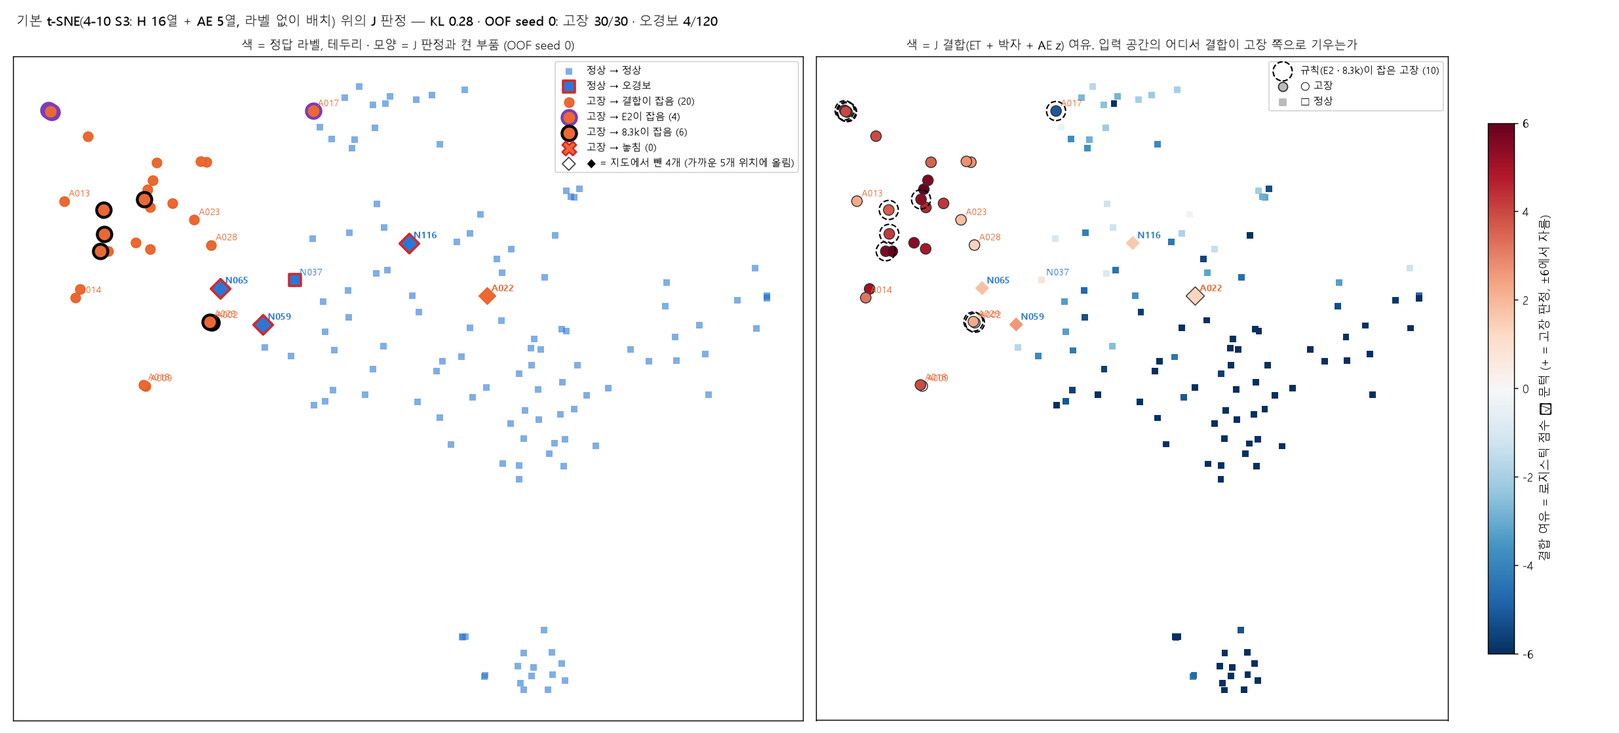
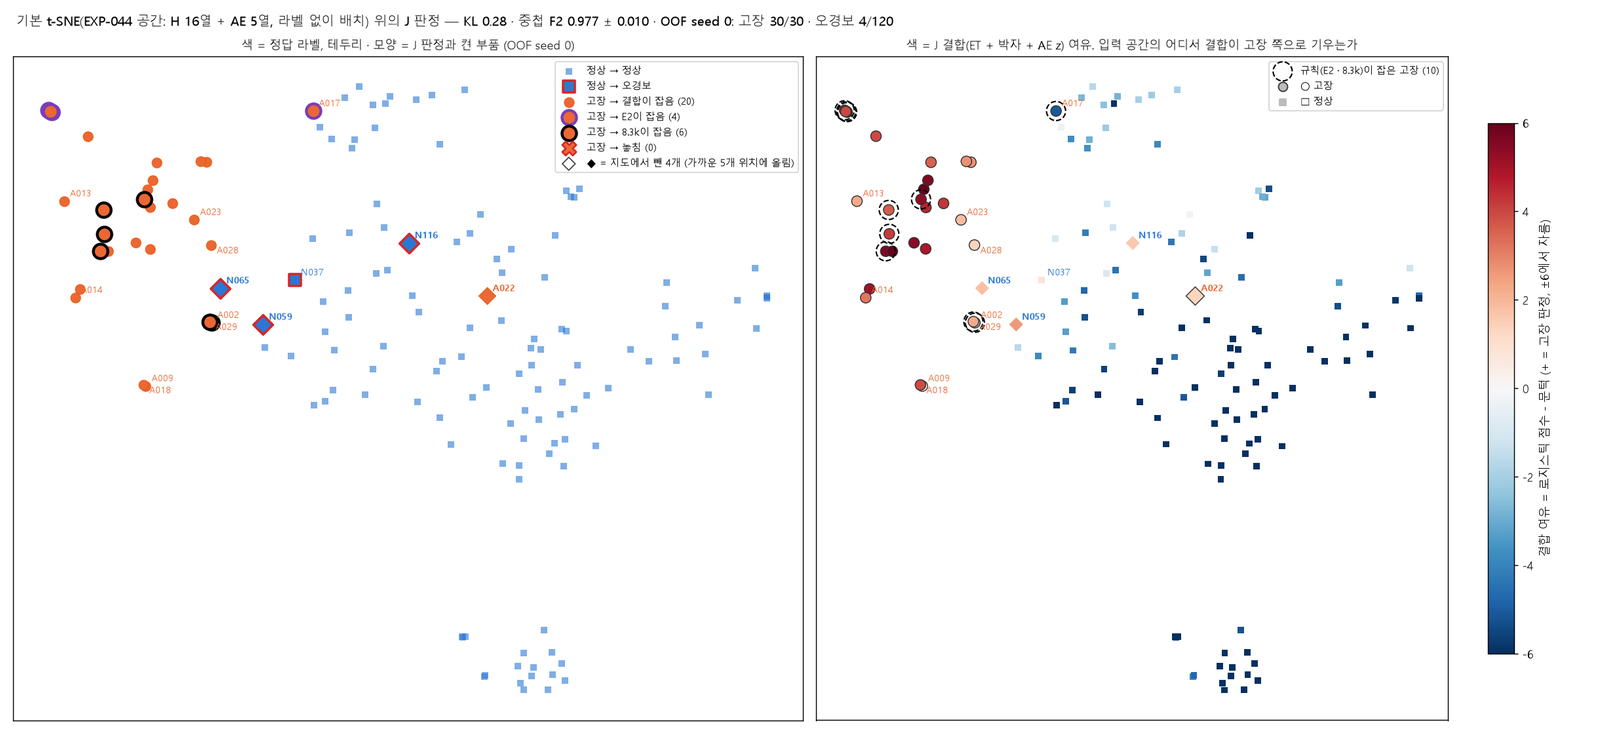
docs: 6-2 기본 t-SNE 위의 J 판정 (find_exp 경로 포함)
- 6-2 run.py · README · 그림(J 판정 · EXP-047 S 판정) · 섞인 점 표 · log
- run.py의 실험 결과 경로를 src.exp.find_exp로 (EXP-047 아카이브 이동 대응)
- 6_오류분석 README에 6-2 줄 (6-3 줄은 6-3 폴더와 함께 미커밋으로 남김)

diff --git a/단계/6_오류분석/6-2_1122_J판정_tSNE/run.py b/단계/6_오류분석/6-2_1122_J판정_tSNE/run.py
@@ -1,8 +1,8 @@
 # %% [markdown]
-# 6-2 (11-22) 기본 t-SNE(4-10 S3, 입력 21열) 위에 J(EXP-044) 판정을 덧입힌다 — 총정리용
-# - 지도 = tsne_default와 같은 공간 · 같은 seed (146개). 빠진 4개(059 · 065 · 116 · 022)는 원래 21열 공간에서 가까운 146개 중 5개의 지도 위치 평균에 ◆로 올린다
-# - 판정 = J를 EXP-044와 같은 방식으로 OOF seed 0 (StratifiedGroupKFold 5겹). 켠 부품 = 결합(로지스틱) · E2 · 8.3k. 결합 여유 = 결합 점수 − 그 폴드의 결합 문턱
-# - 중첩 5회 횟수 = EXP-044 result.json (다시 계산하지 않음)
+# 6-2 (11-22) 기본 t-SNE(4-10 S3) 위에 모델 판정을 덧입힌다 — 총정리용. J(EXP-044) · S(EXP-047, 8–12.5k 쪼갬)
+# - 지도 = 그 실험의 tsne_default와 같은 공간 · 같은 seed (146개). 빠진 4개(059 · 065 · 116 · 022)는 원래 공간에서 가까운 146개 중 5개의 지도 위치 평균에 ◆로 올린다
+# - 판정 = 그 실험 run.py와 같은 방식으로 OOF seed 0 (StratifiedGroupKFold 5겹). 켠 부품 = 결합(로지스틱) · E2 · 8.3k. 결합 여유 = 결합 점수 − 그 폴드의 결합 문턱
+# - 중첩 5회 횟수 = 그 실험 result.json (다시 계산하지 않음)
 # 실행: conda run -n qe-phm python "단계/6_오류분석/6-2_1122_J판정_tSNE/run.py"
 
 # %% 설정
@@ -18,90 +18,109 @@ from sklearn.model_selection import StratifiedGroupKFold
 from sklearn.neighbors import NearestNeighbors
 from src.exp import *
 from src.exp2util import *
-from src.features2 import PeakRef
+from src.features2 import PeakRef, cached_hi_split, HI_SPLIT
 from src.models2 import TwoAE
 HERE = os.path.dirname(os.path.abspath(__file__)); FIG = os.path.join(HERE, "figs"); os.makedirs(FIG, exist_ok=True)
-EXP044 = os.path.join(_d, "단계", "5_모델비교", "EXP-044_1122_AE추가")
+B5 = os.path.join(_d, "단계", "5_모델비교")
 ns = NS(); y, g = ns.y, ns.g; names = np.array(ns.names); nor = y == 0
 out = []; P = lambda s="": (out.append(str(s)), print(s))
+spec, res = rule83_flags(ns.X); r83 = (spec | res).astype(float); idx = np.arange(ns.n, dtype=float)
 
-# %% J OOF seed 0 (EXP-044 run.py의 oof_ae와 같은 계산) + 폴드별 결합 문턱
-spec, res = rule83_flags(ns.X); r83 = (spec | res).astype(float)
-M_rule = np.column_stack([ns.M, np.arange(ns.n, dtype=float), r83])
-mkJ = lambda: Add83(lambda: TwoAE("lin", ("E2",), fixed=tuple(ns.FIXED), nf=ns.nf, df=ns.df, peak=tuple(ns.PEAK)))
-fo = {k: np.empty(ns.n) for k in ("a", "z", "ae", "margin")}; fo.update({k: np.zeros(ns.n, bool) for k in ("main", "E2", "R83")})
-for tr, te in StratifiedGroupKFold(5, shuffle=True, random_state=0).split(g, y, g):
-    m = mkJ().fit(M_rule[tr], y[tr]); f = m.fires(M_rule[te])
-    for k in ("a", "z", "ae", "main", "E2", "R83"): fo[k][te] = f[k]
-    fo["margin"][te] = f["score"] - m.m_.tc_
-caught = fo["main"] | fo["E2"] | fo["R83"]
-part = np.where(fo["R83"], "8.3k", np.where(fo["E2"], "E2", np.where(fo["main"], "결합", "—")))
-J = json.load(open(os.path.join(EXP044, "result.json"), encoding="utf-8"))["configs"]["중첩: J | W + AE + E2 + 8.3k (최종 후보)"]
-n5 = np.array([(5 - J["miss_counts"].get(n_, 0)) if y[i] else J["fp_counts"].get(n_, 0) for i, n_ in enumerate(names)])   # 5회 중 고장 판정 횟수
-P(f"OOF seed 0: 고장 {int(caught[~nor].sum())}/30 잡음 (결합 {int(((part == '결합') & ~nor).sum())} · E2 {int(((part == 'E2') & ~nor).sum())} · 8.3k {int(((part == '8.3k') & ~nor).sum())}), 오경보 {int(caught[nor].sum())}/120: {' '.join(names[nor & caught])}")
-
-# %% 기본 t-SNE 공간 (tsne_space와 같은 계산, 빠진 4개 행도 같이 만든다)
-keep = ~np.isin(names, list(TSNE_DROP))
-Tn = ns.T.copy(); pk = PeakRef(ns.df).fit(ns.L[nor & keep]).transform(ns.L); Tn["H16_peak_h"], Tn["H17_peak_w"] = pk[:, 0], pk[:, 1]
-A = np.column_stack([Tn[ns.cols].values, ae_map_cols(ns)]); Z = map_scale(A[nor & keep], A)[0]
-assert np.allclose(Z[keep], tsne_space(ns)[0])
-kl, Ek, _ = tsne_best(Z[keep])
-E = np.empty((ns.n, 2)); E[keep] = Ek
-nn = NearestNeighbors(n_neighbors=6).fit(Z[keep]); kidx = np.flatnonzero(keep)
-d_, I_ = nn.kneighbors(Z)
-nb = np.where(keep[:, None], I_[:, 1:], I_[:, :5])                     # 자기 자신 제외한 가까운 5개 (지도 안 번호)
-E[~keep] = Ek[nb[~keep]].mean(1)
-nb_abn = (y[kidx][nb] == 1).sum(1)                                     # 원래 21열 공간에서 가까운 5개 중 고장 수
-mixed = np.where(y == 1, nb_abn <= 2, nb_abn >= 3)                     # 섞인 점: 고장인데 이웃 과반이 정상 / 정상인데 이웃 과반이 고장
-P(f"t-SNE KL {kl:.2f}. 섞인 고장(이웃 5개 중 고장 ≤ 2): {' '.join(short(n_) for n_ in names[mixed & ~nor])}")
-P(f"섞인 정상(이웃 5개 중 고장 ≥ 3): {' '.join(short(n_) for n_ in names[mixed & nor]) or '없음'}")
-
-# %% 그림: 왼쪽 = 라벨 + J 판정(켠 부품), 오른쪽 = 결합 여유 색
+# 모델 두 개: (H 표, ET 고정 열, t-SNE 열, result.json 위치 · 키)
+SP = cached_hi_split("train", ns.X); Hs = pd.concat([ns.T, SP], axis=1)
+FX47 = [c for c in ns.FIXED if c not in ("H10_ring_8-12.5k", "H15_share_8-12.5k")] + HI_SPLIT
+M47 = np.hstack([Hs[FX47].values, ns.T[["L1_S"]].values, ns.L])
+CFG = {"J": dict(exp="EXP-044", T=ns.T, FX=list(ns.FIXED), M=ns.M, cols=list(ns.cols), json=("EXP-044_1122_AE추가", "중첩: J | W + AE + E2 + 8.3k (최종 후보)"), fig="tsne_J판정"),
+       "S": dict(exp="EXP-047", T=Hs, FX=FX47, M=M47, cols=FX47 + list(ns.PEAK) + ["L1_S"], json=("EXP-047_1122_8-12k쪼개기", "중첩: S | J에서 H10 · H15 → 8–10 · 10–12.5k 4열 (이상치 포함 학습)"), fig="tsne_S판정_EXP047")}
 EDGE = {"결합": "#e8590c", "E2": "#7a3db8", "8.3k": "#000000"}
-ann = sorted(set(TSNE_LABELS) | set(TSNE_DROP) | set(names[nor & caught]) | set(names[mixed]))
-fig, axs = plt.subplots(1, 2, figsize=(19, 8.6))
-ax = axs[0]
-for dk, mk_, sz in ((keep, "o", 1.0), (~keep, "D", 1.5)):
-    m = dk & nor & ~caught; ax.scatter(*E[m].T, s=26 * sz, marker="s" if mk_ == "o" else "D", color=NOR, alpha=.6, lw=0, label="정상 → 정상" if mk_ == "o" else None)
-    m = dk & nor & caught; ax.scatter(*E[m].T, s=90 * sz, marker="s" if mk_ == "o" else "D", color=NOR, edgecolor="#d62728", lw=2, label="정상 → 오경보" if mk_ == "o" else None)
-    for k, c in EDGE.items():
-        m = dk & ~nor & (part == k)
-        ax.scatter(*E[m].T, s=(70 if k == "결합" else 150) * sz, marker=mk_, color=ABN, edgecolor=c, lw=.6 if k == "결합" else 2.4,
-                   label=f"고장 → {k}이 잡음 ({int(((part == k) & ~nor).sum())})" if mk_ == "o" else None)
-    m = dk & ~nor & ~caught; ax.scatter(*E[m].T, s=140 * sz, marker="X", color=ABN, edgecolor="#d62728", lw=1.5, label=f"고장 → 놓침 ({int((~nor & ~caught).sum())})" if mk_ == "o" else None)
-ax.scatter([], [], marker="D", s=60, facecolor="none", edgecolor="#444", label="◆ = 지도에서 뺀 4개 (가까운 5개 위치에 올림)")
-ax.set_title("색 = 정답 라벨, 테두리 · 모양 = J 판정과 켠 부품 (OOF seed 0)", fontsize=10)
-ax.legend(fontsize=8.3, loc="upper right")
-ax = axs[1]
-mg = np.clip(fo["margin"], -6, 6); nrm = TwoSlopeNorm(0, -6, 6)
-for dk, mn, mf in ((keep, "s", "o"), (~keep, "D", "D")):
-    ax.scatter(*E[dk & nor].T, c=mg[dk & nor], cmap="RdBu_r", norm=nrm, s=30 if mn == "s" else 70, marker=mn, lw=0)
-    sc = ax.scatter(*E[dk & ~nor].T, c=mg[dk & ~nor], cmap="RdBu_r", norm=nrm, s=80 if mf == "o" else 120, marker=mf, edgecolor="#333", lw=.8)
-rule = ~nor & np.isin(part, ["E2", "8.3k"])
-ax.scatter(*E[rule].T, s=260, facecolor="none", edgecolor="#000", lw=1.2, ls="--", label=f"규칙(E2 · 8.3k)이 잡은 고장 ({int(rule.sum())})")
-ax.scatter([], [], marker="o", s=60, color="#bbb", edgecolor="#333", label="○ 고장"); ax.scatter([], [], marker="s", s=30, color="#bbb", label="□ 정상")
-cb = fig.colorbar(sc, ax=ax, shrink=.8); cb.set_label("결합 여유 = 로지스틱 점수 − 문턱 (+ = 고장 판정, ±6에서 자름)")
-ax.set_title("색 = J 결합(ET + 박자 + AE z) 여유. 입력 공간의 어디서 결합이 고장 쪽으로 기우는가", fontsize=10)
-ax.legend(fontsize=8.3, loc="upper right")
-for a_ in axs:
-    for f_ in ann:
-        i = int(np.flatnonzero(names == f_)[0]); a_.annotate(short(f_), E[i], xytext=(4, 4), textcoords="offset points", fontsize=7.5, color=ABN if y[i] else NOR, weight="bold" if f_ in TSNE_DROP else None)
-    a_.set_xticks([]); a_.set_yticks([])
-fig.suptitle(f"기본 t-SNE(4-10 S3: H 16열 + AE 5열, 라벨 없이 배치) 위의 J 판정 — KL {kl:.2f} · OOF seed 0: 고장 {int(caught[~nor].sum())}/30 · 오경보 {int(caught[nor].sum())}/120", x=.01, ha="left", fontsize=11)
-fig.tight_layout(); fig.savefig(os.path.join(FIG, "tsne_J판정.png"), dpi=130); plt.close(fig)
+keep = ~np.isin(names, list(TSNE_DROP))
 
-# %% 표: 섞인 점 + 빠진 4개 + 오경보
-rows = [i for i in range(ns.n) if names[i] in ann]
-rows.sort(key=lambda i: (y[i] == 0, -fo["margin"][i]))
-T = pd.DataFrame({"파일": [short(names[i]) for i in rows], "정답": ["고장" if y[i] else "정상" for i in rows],
-                  "지도": ["◆ 뺌" if not keep[i] else ("섞임" if mixed[i] else "") for i in rows],
-                  "이웃 고장(5)": [int(nb_abn[i]) for i in rows], "ET logit": [f"{fo['a'][i]:.2f}" for i in rows],
-                  "박자 z": [f"{fo['z'][i]:.1f}" for i in rows], "AE z": [f"{fo['ae'][i]:.2f}" for i in rows],
-                  "결합 여유": [f"{fo['margin'][i]:+.2f}" for i in rows], "켠 부품(seed 0)": [part[i] for i in rows],
-                  "중첩 5회 고장 판정": [f"{n5[i]}/5" for i in rows]})
-with open(os.path.join(HERE, "표_J판정_섞인점.md"), "w", encoding="utf-8") as fh:
-    fh.write("# 6-2 섞인 점 · 지도에서 뺀 4개 · 오경보의 J 판정\n\n이웃 고장(5) = t-SNE 전 21열 공간에서 가까운 5개(146개 중) 중 고장 수. 결합 여유 = 로지스틱 점수 − 폴드 문턱(+ = 결합이 고장 판정). "
-             "켠 부품 = OOF seed 0에서 고장 판정을 낸 부품(8.3k > E2 > 결합 순으로 표시). 중첩 5회 = EXP-044 result.json\n\n" + md_table(T) + "\n")
-P(T.to_string(index=False))
+
+def judge(c):
+    """OOF seed 0: 판정 부품 · ET · 박자 z · AE z · 결합 여유 + 중첩 5회 고장 판정 횟수"""
+    Mr = np.column_stack([c["M"], idx, r83])
+    mk = lambda: Add83(lambda: TwoAE("lin", ("E2",), fixed=tuple(c["FX"]), nf=len(c["FX"]), df=ns.df, peak=tuple(ns.PEAK)))
+    fo = {k: np.empty(ns.n) for k in ("a", "z", "ae", "margin")}; fo.update({k: np.zeros(ns.n, bool) for k in ("main", "E2", "R83")})
+    for tr, te in StratifiedGroupKFold(5, shuffle=True, random_state=0).split(g, y, g):
+        m = mk().fit(Mr[tr], y[tr]); f = m.fires(Mr[te])
+        for k in ("a", "z", "ae", "main", "E2", "R83"): fo[k][te] = f[k]
+        fo["margin"][te] = f["score"] - m.m_.tc_
+    fo["caught"] = fo["main"] | fo["E2"] | fo["R83"]
+    fo["part"] = np.where(fo["R83"], "8.3k", np.where(fo["E2"], "E2", np.where(fo["main"], "결합", "—")))
+    R = json.load(open(os.path.join(find_exp(c["json"][0]), "result.json"), encoding="utf-8"))["configs"][c["json"][1]]
+    fo["n5"] = np.array([(5 - R["miss_counts"].get(n_, 0)) if y[i] else R["fp_counts"].get(n_, 0) for i, n_ in enumerate(names)])
+    fo["res"] = R
+    return fo
+
+
+def tsne_map(c):
+    """tsne_space와 같은 공간 → 지도 좌표 (150, 2; 빠진 4개는 가까운 5개 위치 평균), 이웃 고장 수, KL"""
+    Tn = c["T"].copy(); pk = PeakRef(ns.df).fit(ns.L[nor & keep]).transform(ns.L); Tn["H16_peak_h"], Tn["H17_peak_w"] = pk[:, 0], pk[:, 1]
+    A = np.column_stack([Tn[c["cols"]].values, ae_map_cols(ns)]); Z = map_scale(A[nor & keep], A)[0]
+    assert np.allclose(Z[keep], tsne_space(ns, c["T"], c["cols"])[0])
+    kl, Ek, _ = tsne_best(Z[keep])
+    E = np.empty((ns.n, 2)); E[keep] = Ek
+    _, I_ = NearestNeighbors(n_neighbors=6).fit(Z[keep]).kneighbors(Z)
+    nb = np.where(keep[:, None], I_[:, 1:], I_[:, :5])
+    E[~keep] = Ek[nb[~keep]].mean(1)
+    return E, (y[np.flatnonzero(keep)][nb] == 1).sum(1), kl, Z.shape[1]
+
+
+def draw(tag, c, fo, E, nb_abn, kl, ncol):
+    part, caught = fo["part"], fo["caught"]
+    mixed = np.where(y == 1, nb_abn <= 2, nb_abn >= 3)
+    ann = sorted(set(TSNE_LABELS) | set(TSNE_DROP) | set(names[nor & caught]) | set(names[mixed]) | set(names[(fo["n5"] < 5) & ~nor]))
+    fig, axs = plt.subplots(1, 2, figsize=(19, 8.6))
+    ax = axs[0]
+    for dk, mk_, sz in ((keep, "o", 1.0), (~keep, "D", 1.5)):
+        m = dk & nor & ~caught; ax.scatter(*E[m].T, s=26 * sz, marker="s" if mk_ == "o" else "D", color=NOR, alpha=.6, lw=0, label="정상 → 정상" if mk_ == "o" else None)
+        m = dk & nor & caught; ax.scatter(*E[m].T, s=90 * sz, marker="s" if mk_ == "o" else "D", color=NOR, edgecolor="#d62728", lw=2, label="정상 → 오경보" if mk_ == "o" else None)
+        for k, ec in EDGE.items():
+            m = dk & ~nor & (part == k)
+            ax.scatter(*E[m].T, s=(70 if k == "결합" else 150) * sz, marker=mk_, color=ABN, edgecolor=ec, lw=.6 if k == "결합" else 2.4,
+                       label=f"고장 → {k}이 잡음 ({int(((part == k) & ~nor).sum())})" if mk_ == "o" else None)
+        m = dk & ~nor & ~caught; ax.scatter(*E[m].T, s=140 * sz, marker="X", color=ABN, edgecolor="#d62728", lw=1.5, label=f"고장 → 놓침 ({int((~nor & ~caught).sum())})" if mk_ == "o" else None)
+    ax.scatter([], [], marker="D", s=60, facecolor="none", edgecolor="#444", label="◆ = 지도에서 뺀 4개 (가까운 5개 위치에 올림)")
+    ax.set_title(f"색 = 정답 라벨, 테두리 · 모양 = {tag} 판정과 켠 부품 (OOF seed 0)", fontsize=10); ax.legend(fontsize=8.3, loc="upper right")
+    ax = axs[1]
+    mg = np.clip(fo["margin"], -6, 6); nrm = TwoSlopeNorm(0, -6, 6)
+    for dk, mn, mf in ((keep, "s", "o"), (~keep, "D", "D")):
+        ax.scatter(*E[dk & nor].T, c=mg[dk & nor], cmap="RdBu_r", norm=nrm, s=30 if mn == "s" else 70, marker=mn, lw=0)
+        sc = ax.scatter(*E[dk & ~nor].T, c=mg[dk & ~nor], cmap="RdBu_r", norm=nrm, s=80 if mf == "o" else 120, marker=mf, edgecolor="#333", lw=.8)
+    rule = ~nor & np.isin(part, ["E2", "8.3k"])
+    ax.scatter(*E[rule].T, s=260, facecolor="none", edgecolor="#000", lw=1.2, ls="--", label=f"규칙(E2 · 8.3k)이 잡은 고장 ({int(rule.sum())})")
+    ax.scatter([], [], marker="o", s=60, color="#bbb", edgecolor="#333", label="○ 고장"); ax.scatter([], [], marker="s", s=30, color="#bbb", label="□ 정상")
+    cb = fig.colorbar(sc, ax=ax, shrink=.8); cb.set_label("결합 여유 = 로지스틱 점수 - 문턱 (+ = 고장 판정, ±6에서 자름)")
+    ax.set_title(f"색 = {tag} 결합(ET + 박자 + AE z) 여유. 입력 공간의 어디서 결합이 고장 쪽으로 기우는가", fontsize=10); ax.legend(fontsize=8.3, loc="upper right")
+    span = np.ptp(E, 0).max(); placed = []
+    for f_ in ann:                                                      # 붙어 있는 점은 이름표를 아래로 내린다
+        i = int(np.flatnonzero(names == f_)[0]); dy = 4 - 11 * sum(np.hypot(*(E[i] - E[j])) < .05 * span for j in placed); placed.append(i)
+        for a_ in axs: a_.annotate(short(f_), E[i], xytext=(5, dy), textcoords="offset points", fontsize=7.5, color=ABN if y[i] else NOR, weight="bold" if f_ in TSNE_DROP else None)
+    for a_ in axs: a_.set_xticks([]); a_.set_yticks([])
+    R = fo["res"]
+    fig.suptitle(f"기본 t-SNE({c['exp']} 공간: H {ncol - 5}열 + AE 5열, 라벨 없이 배치) 위의 {tag} 판정 — KL {kl:.2f} · 중첩 F2 {R['f2']:.3f} ± {R['f2_sd']:.3f} · OOF seed 0: 고장 {int(caught[~nor].sum())}/30 · 오경보 {int(caught[nor].sum())}/120",
+                 x=.01, ha="left", fontsize=11)
+    fig.tight_layout(); fig.savefig(os.path.join(FIG, c["fig"] + ".png"), dpi=130); plt.close(fig)
+    rows = sorted([i for i in range(ns.n) if names[i] in ann], key=lambda i: (y[i] == 0, -fo["margin"][i]))
+    return pd.DataFrame({"파일": [short(names[i]) for i in rows], "정답": ["고장" if y[i] else "정상" for i in rows],
+                         "지도": ["◆ 뺌" if not keep[i] else ("섞임" if mixed[i] else "") for i in rows],
+                         "이웃 고장(5)": [int(nb_abn[i]) for i in rows], "ET logit": [f"{fo['a'][i]:.2f}" for i in rows],
+                         "박자 z": [f"{fo['z'][i]:.1f}" for i in rows], "AE z": [f"{fo['ae'][i]:.2f}" for i in rows],
+                         "결합 여유": [f"{fo['margin'][i]:+.2f}" for i in rows], "켠 부품(seed 0)": [fo["part"][i] for i in rows],
+                         "중첩 5회 고장 판정": [f"{fo['n5'][i]}/5" for i in rows]}), mixed
+
+
+# %% 실행
+md = ["# 6-2 섞인 점 · 지도에서 뺀 4개 · 오경보의 판정 (J = EXP-044, S = EXP-047)\n",
+      "이웃 고장(5) = t-SNE 전 그 실험 공간에서 가까운 5개(146개 중) 중 고장 수. 결합 여유 = 로지스틱 점수 − 폴드 문턱(+ = 결합이 고장 판정). "
+      "켠 부품 = OOF seed 0에서 고장 판정을 낸 부품(8.3k > E2 > 결합 순으로 표시). 중첩 5회 = 그 실험 result.json\n"]
+for tag, c in CFG.items():
+    fo = judge(c); E, nb_abn, kl, ncol = tsne_map(c); T, mixed = draw(tag, c, fo, E, nb_abn, kl, ncol)
+    P(f"[{tag} {c['exp']}] OOF seed 0: 고장 {int(fo['caught'][~nor].sum())}/30 (결합 {int(((fo['part'] == '결합') & ~nor).sum())} · E2 {int(((fo['part'] == 'E2') & ~nor).sum())} · 8.3k {int(((fo['part'] == '8.3k') & ~nor).sum())}), "
+      f"오경보 {int(fo['caught'][nor].sum())}/120: {' '.join(names[nor & fo['caught']])} · KL {kl:.2f}")
+    P(f"  섞인 고장: {' '.join(short(n_) for n_ in names[mixed & ~nor])} · 섞인 정상: {' '.join(short(n_) for n_ in names[mixed & nor]) or '없음'}")
+    P(T.to_string(index=False)); P()
+    md += [f"\n## {tag} ({c['exp']})\n\n![{tag}](figs/{c['fig']}.png)\n\n", md_table(T), "\n"]
+open(os.path.join(HERE, "표_J판정_섞인점.md"), "w", encoding="utf-8").write("".join(md))
 open(os.path.join(HERE, "log.txt"), "w", encoding="utf-8").write("\n".join(out))
 print("done")

diff --git a/단계/6_오류분석/6-2_1122_J판정_tSNE/README.md b/단계/6_오류분석/6-2_1122_J판정_tSNE/README.md
@@ -1,0 +1,68 @@
+# 6-2 기본 t-SNE 위의 J · S 판정 + 11-22 그림 총정리
+
+**결론: 라벨 없이 배치한 입력 공간(21열)에서도 고장 대부분은 왼쪽 무리에 모이고, J의 결합 여유도 그 무리에서 +로 기운다. 입력 공간에서 정상 쪽에 섞인 고장 8개는 두 가지 방식으로 잡힌다. A009 · A018 · A014 · A028 · A022는 결합이 AE z나 박자 z로 끌어올려 잡고, A017(E2) · A002(8.3k)는 결합 여유가 −로 규칙만 잡는다. 오경보 N059 · N065 · N116 · N037은 고장 무리와 정상 무리 사이 경계에 있다(정보 한계와 일치).**
+
+![J 판정](figs/tsne_J판정.png)
+
+- 지도는 `tsne_default`(EXP-044 `tsne_라벨`)와 **같은 공간 · 같은 seed · 같은 배치**다. H 16열(박자 S 포함) + AE 5열이고, 라벨과 모델은 배치에 쓰지 않는다.
+- ◆ 4개(059 · 065 · 116 · 022)는 지도 계산에서 빠진 파일이다. 원래 21열 공간에서 가장 가까운 5개의 위치 평균에 올렸다.
+- **왼쪽**: 색 = 정답, 테두리 = J가 잡은 부품(OOF seed 0). 주황 얇은 테두리 = 결합, 보라 = E2, 검정 = 8.3k, 빨간 테두리 □ = 오경보.
+  - 부품이 겹치면 8.3k > E2 > 결합 순으로 표시한다. 예를 들어 A029는 결합 여유도 +2.28이다.
+- **오른쪽**: 색 = 결합 여유(로지스틱 점수 − 폴드 문턱). 빨강 = 결합이 고장, 파랑 = 정상. 점선 원 = 규칙이 잡은 고장.
+
+## 섞인 점의 J 판정 (전체는 [표](표_J판정_섞인점.md))
+
+| 파일 | 이웃 고장(5) | ET logit | 박자 z | AE z | 결합 여유 | 켠 부품 | 중첩 5회 |
+|---|---|---|---|---|---|---|---|
+| A018 | 1 | 1.26 | 0.1 | 2.71 | +3.91 | 결합 | 5/5 |
+| A014 | 1 | 0.04 | **3.9** | 1.31 | +3.19 | 결합 | 5/5 |
+| A029 | 1 | 0.78 | 0.0 | 1.97 | +2.28 | 8.3k | 5/5 |
+| A028 | 2 | 0.41 | 1.5 | 1.42 | +1.38 | 결합 | 5/5 |
+| A022 ◆ | 2 | −0.08 | **8.5** | −0.24 | +1.32 | 결합 | 5/5 |
+| A009 | 1 | 0.07 | 0.0 | **2.29** | +0.17 | 결합 | 5/5 |
+| A002 | 1 | −0.85 | 0.0 | 1.97 | **−2.48** | 8.3k | 5/5 |
+| A017 | 0 | −1.27 | 0.0 | −0.83 | **−5.08** | E2 | 5/5 |
+| N059 ◆ | 2 | 1.17 | 0.0 | 2.55 | +2.60 | 결합 | 3/5 |
+| N065 ◆ | 3 | 0.63 | 0.0 | 0.72 | +1.81 | 결합 | 4/5 |
+| N116 ◆ | 1 | 0.68 | 0.0 | 1.85 | +1.60 | 결합 | 5/5 |
+| N037 | 0 | 0.09 | 0.0 | 0.92 | +0.82 | 결합 | 2/5 |
+
+이웃 고장(5) = t-SNE 전 21열 공간에서 가까운 5개 중 고장 수. 2 이하이면 "섞인 고장"이다.
+
+## 해석
+- **t-SNE와 메인 그림이 다르게 보이는 이유가 파일 단위로 확인된다.** A009는 ET가 0.07로 정상 수준이지만 AE z가 2.29라서 결합이 간신히(+0.17) 잡는다. t-SNE는 21열에 같은 비중을 줘서 이 AE 신호가 묻히고, 로지스틱은 AE에 따로 가중치를 줘서 살린다. A014 · A022는 박자 z가 같은 역할을 한다.
+- **규칙 2개가 없으면 A002 · A017을 놓친다.** 두 파일은 결합 여유가 −이고, A017은 정상 무리 한가운데에 있다(이웃 고장 0). K(규칙 없음)가 자주 놓친 파일과 같다.
+- **오경보 4개는 모두 결합이 냈고, 두 무리 사이에 있다.** N059 · N116은 AE z가 고장 수준(2.55 · 1.85)이다. 입력 공간에서도 고장과 가까워 피처로 가르기 어렵다(4-9 결론과 같음).
+
+## S(EXP-047, 8–12.5k 쪼갬) 판정
+
+![S 판정](figs/tsne_S판정_EXP047.png)
+
+- 지도는 EXP-047 공간(H 18열 + AE 5열)이다. 섞인 고장 8개와 잡는 부품 수(결합 20 · E2 4 · 8.3k 6)는 J와 같다.
+- 쪼갠 열로 경계 고장의 결합 여유가 올라간다: **A009 +0.17 → +0.99 · A002 −2.48 → −0.26 · A022 +1.32 → +3.11** (A022는 중첩 4/5로 한 번 놓침).
+- 오경보는 N037 대신 **N025**(여유 +0.23, 중첩 4/5)가 생긴다. N065 · N116의 여유는 줄어든다(+1.81 → +0.50, +1.60 → +0.79). 중첩 F2는 0.968로 J(0.977)보다 낮다.
+- 사용자 판단("경계 고장 2개만 처리하면 더 잘 갈림")과 맞는 그림이다. A002 · A017은 S에서도 결합 여유가 −다.
+
+## 뷰어
+
+EDA 뷰어 "로지스틱 경계" 화면 아래 t-SNE 카드에도 같은 판정을 덧입혔다(EXP-044 · 047). 색을 정답 라벨 / 결합 결정값 중에서 고르고, 규칙 기호와 ◆ 4개가 나온다. 뷰어 지도는 val 40개를 함께 펼친 것이라 이 그림과 배치는 다르다.
+
+## 11-22 그림 총정리 (어제 만든 그림의 역할)
+
+| 묻는 것 | 그림 | 공간 | 요점 |
+|---|---|---|---|
+| J는 어떻게 판단하나 (메인) | [EXP-044 logistic_plane](../../5_모델비교/4_최종모델J/EXP-044_1122_AE추가/figs/logistic_plane.png) | 모델 출력: ET + 박자 z 환산 × AE z | 로지스틱 경계 vs ET 단독 경계, 부품별 잡음 |
+| 입력 공간에서 정상 · 고장이 갈리나 | [4-10 tsne_S3_AE5](../../4_피처/4-10_1122_tSNE_AE공간/figs/tsne_S3_AE5.png), [공간 비교](../../4_피처/4-10_1122_tSNE_AE공간/figs/tsne_공간비교.png) | 입력 21열 | AE 5열을 더하면 고장 무리가 라벨 없이도 보임, 5-NN AUC 0.975 |
+| 그 공간에서 J는 어디를 잡나 | **이 그림** [tsne_J판정](figs/tsne_J판정.png) · [tsne_S판정](figs/tsne_S판정_EXP047.png) | 입력 21 · 23열 + 판정 | 섞인 고장 = 결합(AE · 박자) 또는 규칙. S는 경계 고장 여유가 오름 |
+| val은 어디에 놓이나 | [EXP-044 val_판정](../../5_모델비교/4_최종모델J/EXP-044_1122_AE추가/figs/val_판정.png), [tsne_val포함](../../5_모델비교/4_최종모델J/EXP-044_1122_AE추가/figs/tsne_val포함.png) | 출력 평면 / 입력 21열 | val 고장 판정 10/40, val 이동의 큰 몫은 ET |
+| 이상치 정상 학습 제외 | [EXP-046 logistic_plane](../../5_모델비교/아카이브/EXP-046_1122_이상치정상_학습제외/figs/logistic_plane.png) | 출력 평면 | 0.961, J보다 낮음 |
+| 8–12.5k 쪼개기 | [EXP-047 logistic_plane](../../5_모델비교/아카이브/EXP-047_1122_8-12k쪼개기/figs/logistic_plane.png), [tsne_라벨](../../5_모델비교/아카이브/EXP-047_1122_8-12k쪼개기/figs/tsne_라벨.png) | 출력 평면 / 입력 | 0.968. 경계 고장 2개만 처리하면 지도가 더 잘 갈림(사용자: 중요 실험) |
+| 결합을 비선형으로 | [EXP-045 logistic_plane](../../5_모델비교/4_최종모델J/EXP-045_1122_비선형결합/figs/logistic_plane.png) | 출력 평면 | 모두 lin보다 나쁨 → 기각 |
+| 공유용 (팀) | [EXP-044 공유_1122](../../5_모델비교/4_최종모델J/EXP-044_1122_AE추가/공유_1122/) 그림 1–4 | 출력 평면 | 학습 · val 최종 판단, val 여유, 결정축 |
+
+발표에서는 두 그림을 짝지어 쓴다. **"입력 공간(t-SNE)에서 섞인 점 → J가 어느 부품으로 풀었나(이 그림) → 그 판단의 경계(logistic_plane)"** 순서다.
+
+## 방법 메모
+- 판정은 EXP-044 run.py의 `oof_ae`와 같은 계산이다(StratifiedGroupKFold 5겹, seed 0). 중첩 5회 횟수는 EXP-044 `result.json`에서 가져왔다.
+- 지도는 `tsne_space`와 같은 값인지 assert로 확인했다(KL 0.28).
+- 실행: `conda run -n qe-phm python "단계/6_오류분석/6-2_1122_J판정_tSNE/run.py"`. 출력 = `figs/tsne_J판정.png` · `표_J판정_섞인점.md` · `log.txt`

diff --git a/단계/6_오류분석/6-2_1122_J판정_tSNE/표_J판정_섞인점.md b/단계/6_오류분석/6-2_1122_J판정_tSNE/표_J판정_섞인점.md
@@ -1,6 +1,9 @@
-# 6-2 섞인 점 · 지도에서 뺀 4개 · 오경보의 J 판정
+# 6-2 섞인 점 · 지도에서 뺀 4개 · 오경보의 판정 (J = EXP-044, S = EXP-047)
+이웃 고장(5) = t-SNE 전 그 실험 공간에서 가까운 5개(146개 중) 중 고장 수. 결합 여유 = 로지스틱 점수 − 폴드 문턱(+ = 결합이 고장 판정). 켠 부품 = OOF seed 0에서 고장 판정을 낸 부품(8.3k > E2 > 결합 순으로 표시). 중첩 5회 = 그 실험 result.json
 
-이웃 고장(5) = t-SNE 전 21열 공간에서 가까운 5개(146개 중) 중 고장 수. 결합 여유 = 로지스틱 점수 − 폴드 문턱(+ = 결합이 고장 판정). 켠 부품 = OOF seed 0에서 고장 판정을 낸 부품(8.3k > E2 > 결합 순으로 표시). 중첩 5회 = EXP-044 result.json
+## J (EXP-044)
+
+![J](figs/tsne_J판정.png)
 
 | 파일 | 정답 | 지도 | 이웃 고장(5) | ET logit | 박자 z | AE z | 결합 여유 | 켠 부품(seed 0) | 중첩 5회 고장 판정 |
 |---|---|---|---|---|---|---|---|---|---|
@@ -18,3 +21,24 @@
 | N065 | 정상 | ◆ 뺌 | 3 | 0.63 | 0.0 | 0.72 | +1.81 | 결합 | 4/5 |
 | N116 | 정상 | ◆ 뺌 | 1 | 0.68 | 0.0 | 1.85 | +1.60 | 결합 | 5/5 |
 | N037 | 정상 |  | 0 | 0.09 | 0.0 | 0.92 | +0.82 | 결합 | 2/5 |
+
+## S (EXP-047)
+
+![S](figs/tsne_S판정_EXP047.png)
+
+| 파일 | 정답 | 지도 | 이웃 고장(5) | ET logit | 박자 z | AE z | 결합 여유 | 켠 부품(seed 0) | 중첩 5회 고장 판정 |
+|---|---|---|---|---|---|---|---|---|---|
+| A018 | 고장 | 섞임 | 1 | 1.30 | 0.1 | 2.71 | +3.91 | 결합 | 5/5 |
+| A022 | 고장 | ◆ 뺌 | 2 | -0.02 | 8.5 | -0.24 | +3.11 | 결합 | 4/5 |
+| A014 | 고장 | 섞임 | 1 | -0.22 | 3.9 | 1.31 | +2.36 | 결합 | 5/5 |
+| A029 | 고장 | 섞임 | 1 | 0.83 | 0.0 | 1.97 | +2.34 | 8.3k | 5/5 |
+| A013 | 고장 |  | 3 | 0.63 | 0.4 | 2.03 | +2.16 | 결합 | 5/5 |
+| A023 | 고장 |  | 4 | 0.33 | 0.4 | 2.37 | +1.22 | 결합 | 5/5 |
+| A009 | 고장 | 섞임 | 1 | 0.19 | 0.0 | 2.29 | +0.99 | 결합 | 5/5 |
+| A028 | 고장 | 섞임 | 2 | -0.08 | 1.5 | 1.42 | +0.88 | 결합 | 5/5 |
+| A002 | 고장 | 섞임 | 1 | -0.65 | 0.0 | 1.97 | -0.26 | 8.3k | 5/5 |
+| A017 | 고장 | 섞임 | 0 | -1.32 | 0.0 | -0.83 | -5.42 | E2 | 5/5 |
+| N059 | 정상 | ◆ 뺌 | 2 | 0.98 | 0.0 | 2.55 | +2.87 | 결합 | 4/5 |
+| N116 | 정상 | ◆ 뺌 | 1 | 0.49 | 0.0 | 1.85 | +0.79 | 결합 | 5/5 |
+| N065 | 정상 | ◆ 뺌 | 1 | 0.21 | 0.0 | 0.72 | +0.50 | 결합 | 2/5 |
+| N025 | 정상 |  | 0 | -0.58 | 0.4 | 1.53 | +0.23 | 결합 | 4/5 |

diff --git a/단계/6_오류분석/README.md b/단계/6_오류분석/README.md
@@ -15,6 +15,7 @@
 
 ## 결과
 (그림은 `figs/`, 수치는 실험로그와 같은 값)
+- [6-2 (11-22) 기본 t-SNE 위의 J 판정 + 11-22 그림 총정리](6-2_1122_J판정_tSNE/README.md): 섞인 고장 8개는 결합(AE · 박자 z)이나 규칙(A002 8.3k · A017 E2)이 잡는다. 오경보 4개는 두 무리 사이 경계에 있다
 - [6-4 (11-22) J 경계 파일 진단](6-4_1122_경계파일진단/README.md): 경계 파일 13개 중 8개는 "충격 2–6개 + 4 kHz 아래 울림" 유형. 시간 구조 피처(사건 수 · 후속 충격 · 몰림)는 충격 수와 같은 정보(ρ 0.74–0.96). 이 유형을 보정하는 실험 = [EXP-050](../5_모델비교/5_울림비율축소/EXP-050_1122_울림비율축소_H10/README.md)(울림 비율 축소, J와 같은 점수)
 - [6-6 (11-22) V025 진단](6-6_1122_V025진단/README.md): J-축소 여유 −0.09의 주원인은 울림 2.0 kHz가 대역 경계(2000 Hz는 2–4k로 셈)에 걸린 것. 1–2k로 셌다면 −2.05. 그 위에 val 공통 AE 상승 +0.61. 주기 잠금 점수는 0(원인 아님). 폴드 모델 6개 중 4개는 고장
 - [6-7 (11-22) val 확실도 · 경계 val 점검](6-7_1122_val확실도/README.md): J-축소 val 40개 중 31개 확실(정상 23 · 고장 8). 흔들리는 건 001(8.3k 규칙만) · 025(19/25) · 018(12/25). 001은 규칙 기준 자료(2-11)로는 고장 자리지만, 고정 공진이 아니라 8.56 → 8.13 kHz로 미끄러지는 지속음(+4.2 kHz 짝)이고 8.3 kHz 충격 울림이 없음 → 학습에 없던 새 모양, 확실하지 않음. 제출 모델 문턱이 120개 모델들보다 높아 체계적으로 정상 쪽
